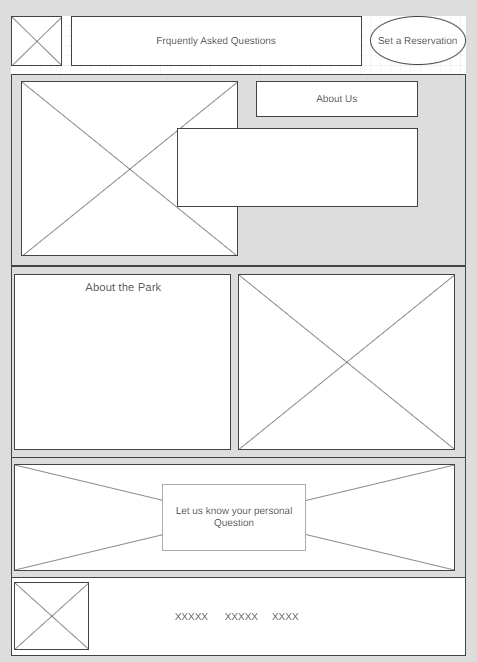
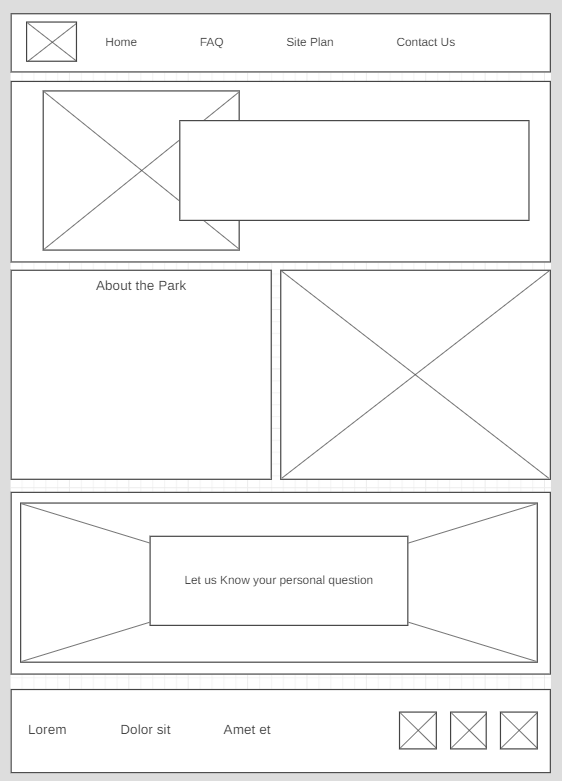
week9_homework

diff --git a/wwr/page2.html b/wwr/page2.html
@@ -3,29 +3,63 @@
 <head>
     <meta charset="UTF-8">
     <meta name="viewport" content="width=device-width, initial-scale=1.0">
-    <title>Page 2</title>
-    <link rel="stylesheet" href="styles/page2.css">
+    <link rel="stylesheet" href="styles/styles.css">
+    <title>Frequently asked client questions</title>
 </head>
 <body>
-    <div class="Body">
-        <header id="header">
+    <div id="content">
+        <header id="header2">
             <a href="index.html" id="logo_link">
                 <img class="logo" src="images/logo2.jpg" alt="Dry Oar Logo">
             </a>
-            <nav>
+            <nav id="nav2">
                 <a href="index.html">Home</a>
                 <a href="page2.html">Frequently asked client questions</a>
                 <a href="site-plan-rafting.html">Site Plan</a>
                 <a href="contactus.html">Contact Us</a>
             </nav>
         </header>
-
-        <main id="main">
-
+        <main class="FAQ_grid">
+            <img class="cabin" src="images/salmon-cabins.jpg" alt="cabin">
+            <section class="about_us">
+                <h2>About us</h2>
+                <p>We have 10 years of experience, we started in january 2013 and we are one of the best companies for Vacations, we have the all equipment and devices for you.</p>
+                <p>We were foundated by the corporation Orellana. and our mision is to be the best company turistic with the all experience the people is looking for.</p>
+            </section>
+            <section class="about_park">
+                <h2>About the park</h2>
+                <p>The park is too long, we have more than 4k trees and a big river and 5 big mountains for climbing, there are also the next: </p>
+                <ul>
+                    <li>Place to lunch</li>
+                    <li>Pet friendly</li>
+                    <li>Equipment for rafting</li>
+                    <li>free wife</li>
+                    <li>Restaurant</li>
+                    <li>are to picnic</li>
+                    <li>profesional photographer</li>
+                </ul>
+            </section>
+            <img id="principal_place" src="images/lunch.jpg" alt="principal_place">
+            <section id="question"> 
+                <h2>Let us know your question</h2>
+            </section>
+            <img class="desolation" src="images/rafting21_600.png" alt="desolation">
         </main>
-
-        <footer id="footer">
-
+        <footer>
+            <p>Dry Oar &copy; 2023 - Erick Orellana</p>
+            <p><a href="site-plan-rafting.html">Site Plan</a></p>
+            <p><a href="contactus.html">Contact Us</a></p>
+            <div class="social">
+                <a href="https://facebook.com" target="_blank">
+                    <img src="https://byui-wdd.github.io/wdd130/rafting_images/facebook.png" alt="fb icon">
+                </a>
+                <a href="https://x.com" target="_blank">
+                    <img src="https://byui-wdd.github.io/wdd130/rafting_images/twitter.png" alt="X icon">
+                </a>
+                <a href="https://instagram.com" target="_blank">
+                    <img src="https://byui-wdd.github.io/wdd130/rafting_images/instagram.png" alt="instagram icon">
+                </a>
+            </div>
         </footer>
     </div>
 </body>

diff --git a/wwr/styles/styles.css b/wwr/styles/styles.css
@@ -23,7 +23,7 @@
   --nav-hover-background-color: #396E94;
 }
 
-
+/*Home page */
 #content {
     max-width: 1600px;
     margin: 0 auto;
@@ -308,5 +308,82 @@ footer .social img {
     footer {
         margin-top: 25px;
     }
+}  
+
+/*Page 2*/
+#header2 {
+    background-color: #596154;
+    display: grid;
+    grid-template-columns: 150px auto;
+    height: 100px;
 }
-   
+
+#header2 img {
+    max-width: 90px
+}
+
+#nav2 a {
+    color: white;
+    text-align: center;
+    text-decoration: none;
+}
+
+#nav2 a:hover {
+    background-color:var(--accent1-color);
+    color:var(--primary-color);
+}
+
+.FAQ_grid {
+    display: grid;
+    grid-template-columns: 10fr 10fr 10fr 10fr 10fr 10fr 10fr 10fr 10fr 10fr;
+    background-color:bisque;
+}
+
+.cabin {
+    width: 100%;
+    grid-area: 2/2/6/5;
+    box-shadow: 5px 5px 10px #6f7364;
+}
+
+.about_us {
+    grid-area: 3/4/5/11;
+    color: white;
+    background-color: #dac3a4;
+}
+
+#principal_place {
+    width: 100%;
+    grid-area: 6/5/8/11;
+    box-shadow: 5px 5px 20px #6f7364;
+}
+
+.about_park {
+    grid-area: 6/1/8/5;
+    justify-self: center;
+    align-self: center;
+    background-color: #dac3a4;
+}
+
+.desolation {
+    width: 100%;
+    height: 700px;
+    grid-area: 8/1/12/11;
+    box-shadow: 5px 5px 10px #6f7364;
+}
+
+#question {
+    grid-column: 3/9;
+    z-index: 2;
+    grid-row: 9/10;
+    position: relative;
+    justify-self: center;
+    align-self: center;
+    background-color: white;
+    width: 100%;
+    height: 100%;
+    box-shadow: 5px 5px 10px #6f7364;
+}
+#question :hover {
+    background-color:var(--accent1-color);
+    color:var(--primary-color);
+}

diff --git a/wwr/site-plan-rafting.html b/wwr/site-plan-rafting.html
@@ -124,7 +124,7 @@
 
     <img src="https://byui-wdd.github.io/wdd130/rafting_images/wireframe_home.png" alt="home page wireframe" />
 
-    <h3>[Page 2]</h3>
+    <h3>Frequently asked client questions [Page 2]</h3>
 
     <img src="images/wireframe_page_two.png" alt="page 2 wireframe">
   </main>
